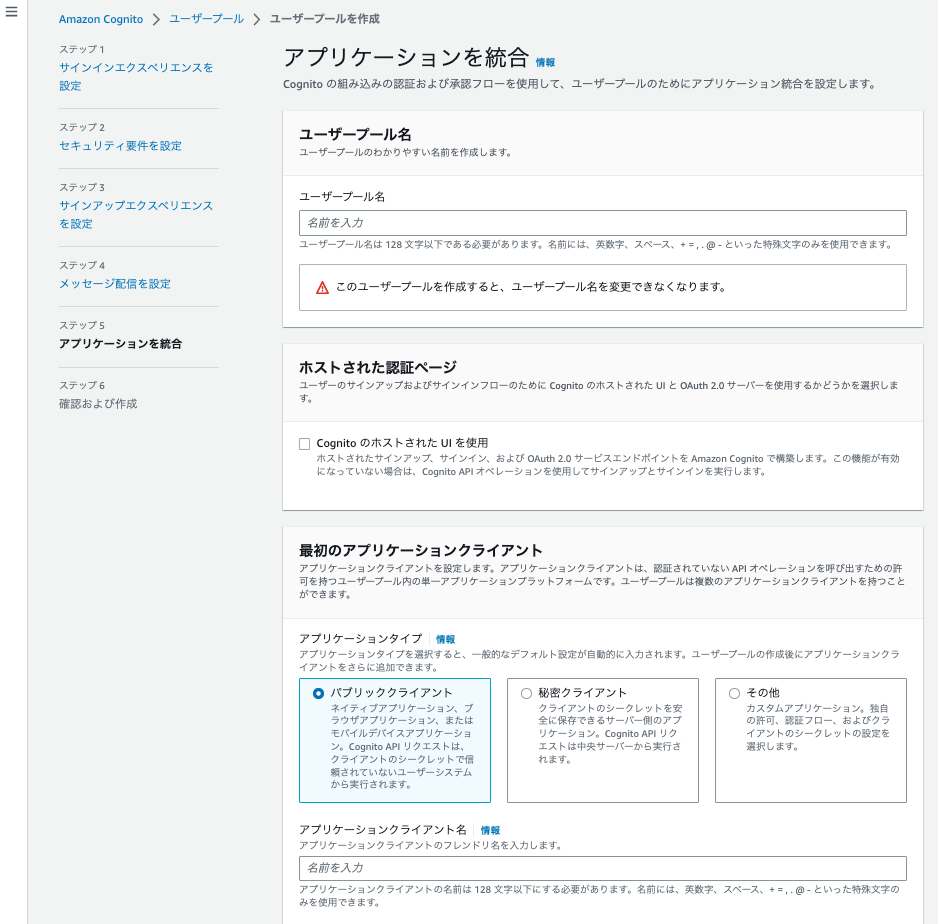
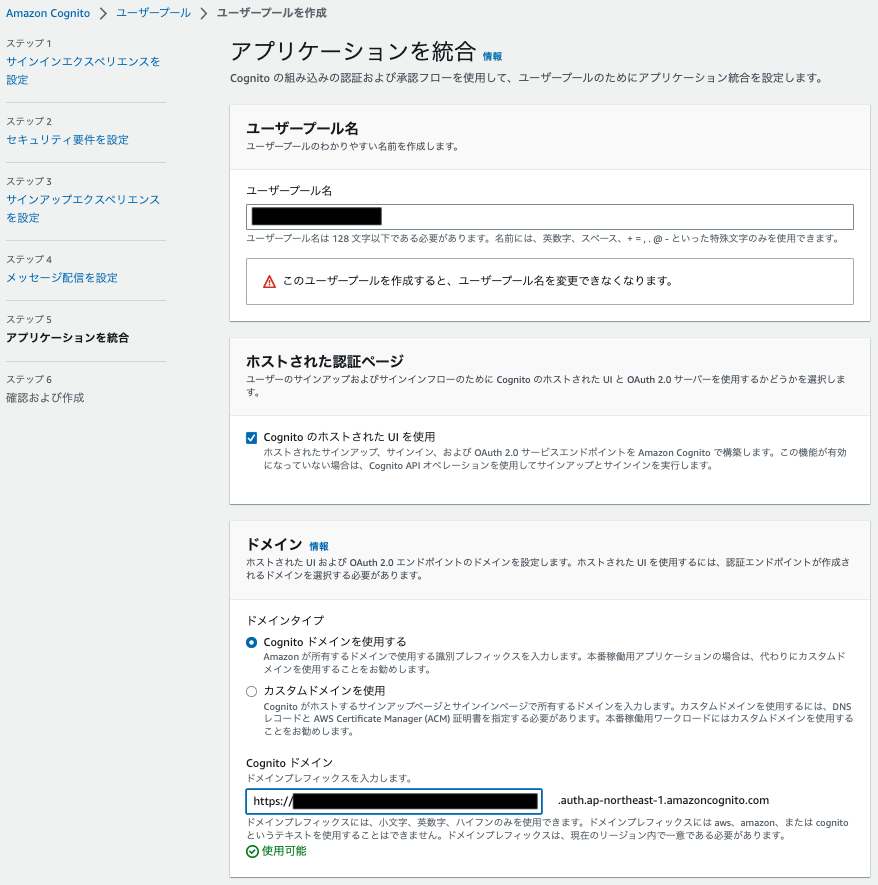
最終追試&手直し 多分いいでしょうおそらく・・

Changed region(s): [[0.2768, 0.122, 1.0, 1.0], [0.0, 0.0, 0.9533, 0.4576], [0.0, 0.061, 0.0308, 0.122]]

diff --git a/_posts/s3HostingCognito.md b/_posts/s3HostingCognito.md
@@ -104,7 +104,7 @@ S3の対象バケットに行って、バケットポリシーを以下で更新
 
 17. ユーザープール名 を入力する
 18. ホストされた認証ページ　CognitoのホストされたUIを必要　にチェックを入れる
-19. Cognitoドメイン　を各自入力する
+19. ドメインは「Cognitoドメインを使用する」を選択し、Cognitoドメイン　を各自入力する
 20. 最初のアプリケーションクライアント　はパブリッククライアント　
 21. アプリケーションクライアント名を入力
 22. クライアントシークレットを生成しない　を設定
@@ -132,19 +132,11 @@ S3の対象バケットに行って、バケットポリシーを以下で更新
 
 ![](/assets/posts/s3HostingCognito/hostedUIConfig.png)
 
-3. 「許可されているサインアウトURL」はサインアウト後に遷移する先のURLがあればHTTPSで設定する。（各自の環境に合わせて設定する）
+3. 「許可されているサインアウトURL」はサインアウト後に遷移する先のURLをHTTPSで設定する。（各自の環境に合わせて設定する）
 4. IDプロバイダー　でCognitoユーザープールを選択
-5. OAuth2.0許可タイプ　は暗黙的な付与を設定する
+5. OAuth2.0許可タイプ　は「認証コード付与」を設定する
 6. OpenID接続スコープ　はOpenIDを設定する
 7. その後「変更の保存」
-
-9. そのあと、以下にアクセスして、ログイン画面が出てくるか確認する
-
-```
-(CognitoドメインのURL)/login?response_type=token&client_id=(アプリクライアント ID)&redirect_uri=(3.のコールバック URL)
-```
-
-表示されれば認証は行えている。
 
 ## IDプールの作成
 
@@ -159,6 +151,9 @@ S3の対象バケットに行って、バケットポリシーを以下で更新
 ![](/assets/posts/s3HostingCognito/idPool.png)
 
 6. すると認証成功時に付与されるIAMロールの設定画面が表示される
+
+![](/assets/posts/s3HostingCognito/idPoolIamRole.png)
+
 7. ここには、対象バケットが見れるようなIAMロールを指定する。新しく作成する場合は、とりあえずそのまま「許可」を押すとそのIDプール用の新しいロールが作られるので、作成後にIAMからポリシーを以下のように設定する。
 
 ```
@@ -205,7 +200,7 @@ CloudFront経由でのサイトアクセス時に、Cognitoによる認証が通
 
 まずはLambda@edgeの設定を行うが、Lambdaのコード類は自分のローカル上で作成する。作成はNode.jsプロジェクトを作る形で行う。
 
-1. 自分のローカルで、Lambda用のフォルダを作成しそこに移動する
+1. 自分のローカル環境で、Lambda用のフォルダを作成しそこに移動する
 2. そのフォルダ下で `npm init` を入力し、Node.jsプロジェクトを作成する。
 3. 今回のLambda@Edgeで使用するライブラリ`cognito-at-edge` をインストールする
 

diff --git a/_posts/s3GithubAction.md b/_posts/s3GithubAction.md
@@ -19,7 +19,7 @@ draft: false
 
 # Githubでリポジトリとコードを用意する
 
-まずは自分のGithubアカウントで、S3にアップロードするためのリポジトリ及びコードを用意しておく。
+まずは自分のGithubアカウントで、GithubがS3にアップロードするためのリポジトリ及びコードを用意しておく。
 
 # ビルド設定
 
@@ -122,3 +122,5 @@ jobs:
 - レポジトリ の「Action」タブから実行状況を確認できる。
 
 ![](/assets/posts/s3GithubAction/result.png)
+
+完了後、S3の静的Webサイトに行ってみよう。pushした内容が反映されていればOK。
